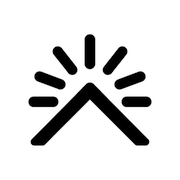
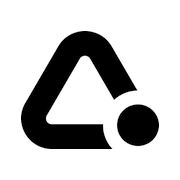
Update branding, copy, and assets for Physical AI positioning.
Refresh the logo and favicon, rebrand to Ashitano Robotics, rewrite vision and contact messaging, and broaden site copy from humanoids to physical AI.

Changed region(s): [[0.1111, 0.1667, 0.8889, 0.8333]]

diff --git a/src/constants/site.ts b/src/constants/site.ts
@@ -1,63 +1,62 @@
 const en = {
-  name: "ASHITANO Robotics",
-  nameEn: "ASHITANO Robotics",
+  name: "Ashitano Robotics",
+  nameEn: "Ashitano Robotics",
   legalName: "ASHITANO Robotics, Inc.",
-  productLine: "One Home, One Robot",
+  productLine: "Enriching tomorrow through technology",
   email: "contact@ashitanorobotics.co.jp",
-  tagline: "Building tomorrow's society through robotics",
+  tagline: "Enriching tomorrow through technology.",
   description:
-    "Building tomorrow's society through robotics. Through humanoid robots at events, warehouses, and logistics sites, we create the moments where people and robots meet.",
-  copyright: "© 2026 ASHITANO Robotics. All Rights Reserved.",
+    "Enriching tomorrow through technology. Through physical AI at events, warehouses, and logistics sites, we create the moments where people and technology meet.",
+  copyright: "© 2026 Ashitano Robotics. All Rights Reserved.",
   nav: {
     solution: "Service",
     vision: "Vision",
     contact: "Contact",
   },
   hero: {
-    title: "Building Tomorrow's Society\nThrough Robotics",
+    title: "Enriching Tomorrow\nThrough Technology",
     cta: "Contact Us",
-    sub: "We bring humanoids into the real world — from events and retail to warehouse and logistics floors.",
-    alt: "A person and a humanoid robot standing side by side",
+    sub: "We bring physical AI into the real world — from events and retail to warehouse and logistics floors.",
+    alt: "Physical AI operating in a real-world environment",
   },
   solution: {
     statement:
-      "From streets to facilities to the places people work — we plan, deploy, and operate humanoids where they create real impact.",
+      "From streets to facilities to the places people work — we plan, deploy, and operate physical AI where it creates real impact.",
     cardCta: "Contact Us",
     capabilities: [
       {
         title: "Marketing & Promotion",
         description:
-          "Humanoid presence that stops people in their tracks — and turns attention into action at events, retail, and commercial spaces.",
+          "Physical AI that stops people in their tracks — and turns attention into action at events, retail, and commercial spaces.",
         image: "/images/cap-marketing-g1-v1.png",
       },
       {
         title: "Warehouse",
         description:
-          "Humanoids that work alongside people in warehouses — supporting picking, sorting, and inventory tasks on the floor.",
+          "Physical AI that works alongside people in warehouses — supporting picking, sorting, and inventory tasks on the floor.",
         image: "/images/cap-warehouse-g1-v1.png",
       },
       {
         title: "Logistics",
         description:
-          "From loading docks to last-mile hubs — humanoids that keep goods moving through the supply chain.",
+          "From loading docks to last-mile hubs — physical AI that keeps goods moving through the supply chain.",
         image: "/images/cap-logistics-g1-v1.png",
       },
       {
         title: "After-hours monitoring",
         description:
-          "When stores and facilities close, humanoids patrol and monitor — keeping sites secure through the night.",
+          "When stores and facilities close, physical AI patrols and monitors — keeping sites secure through the night.",
         image: "/images/cap-monitoring-g1-v1.png",
       },
     ],
   },
   vision: {
-    title: "From streets to stores.\nFrom stores to homes.",
-    body: "First, we grow the places where people and robots meet.\nThe insights we gain expand where robots work — and where they live.\n\nWe don't just talk about a distant future.\nWe build the everyday of robots, one real-world site at a time.",
-    closing: "One Home, One Robot.",
+    title: "Building from real sites.",
+    body: "Physical AI creates new value wherever people gather and wherever work happens — from events and retail to warehouse floors, logistics hubs, and after-hours monitoring. The places it can contribute keep expanding.\n\nWe partner with clients from planning through deployment and day-to-day operations. What we learn at one site informs the next, steadily growing the environments where technology works naturally alongside people.\n\nWe don't talk about a distant future. We start at real sites, and build a world where physical AI and people work together as a matter of course. That is our vision.",
   },
   contact: {
-    title: "Let's build your next project,\nrobots included.",
-    body: "Events, retail, warehouses, logistics — tell us what you have in mind,\nand we'll explore how humanoids can make it work.",
+    title: "Get in touch.",
+    body: "Questions about physical AI — deployment, operations, events, retail, warehouses, or logistics. We'd love to hear from you.",
     cta: "Contact Us",
     submit: "Send",
     form: {
@@ -93,20 +92,20 @@ const en = {
       {
         label: "Business",
         value:
-          "Planning, production, and operation of humanoid-powered services; robot implementation support for marketing, warehouse, and logistics",
+          "Planning, production, and operation of physical AI services; robot implementation support for marketing, warehouse, and logistics",
       },
       { label: "Contact", value: "contact@ashitanorobotics.co.jp" },
     ],
   },
   seo: {
-    homeTitle: "ASHITANO Robotics | Building Tomorrow's Society Through Robotics",
+    homeTitle: "Ashitano Robotics | Enriching Tomorrow Through Technology",
     companyDescription:
-      "Company profile of ASHITANO Robotics, Inc. — planning, production, and operation of humanoid-powered services for marketing, warehouse, and logistics.",
+      "Company profile of Ashitano Robotics — planning, production, and operation of physical AI services for marketing, warehouse, and logistics.",
     privacyDescription:
-      "Privacy policy for ASHITANO Robotics. Learn how we collect, use, and protect personal information submitted through this website.",
+      "Privacy policy for Ashitano Robotics. Learn how we collect, use, and protect personal information submitted through this website.",
     keywords: [
-      "ASHITANO Robotics",
-      "humanoid robot",
+      "Ashitano Robotics",
+      "physical AI",
       "robotics",
       "robot promotion",
       "event marketing",
@@ -114,14 +113,13 @@ const en = {
       "warehouse automation",
       "logistics robotics",
       "robot implementation",
-      "One Home One Robot",
       "Tokyo robotics",
     ],
   },
   privacy: {
     title: "Privacy Policy",
     intro:
-      "ASHITANO Robotics (\u201cwe\u201d) respects your privacy. This policy explains how we handle personal information received through this website and our services.",
+      "Ashitano Robotics (\u201cwe\u201d) respects your privacy. This policy explains how we handle personal information received through this website and our services.",
     sections: [
       {
         heading: "1. Information We Collect",
@@ -153,40 +151,40 @@ const en = {
 
 const ja = {
   name: "あしたのロボティクス",
-  nameEn: "ASHITANO Robotics",
+  nameEn: "Ashitano Robotics",
   legalName: "あしたのロボティクス株式会社",
-  productLine: "One Home, One Robot",
+  productLine: "テクノロジーで、あしたをもっと豊かに。",
   email: "contact@ashitanorobotics.co.jp",
-  tagline: "ロボティクスで、あしたの社会を構築する",
+  tagline: "テクノロジーで、あしたをもっと豊かに。",
   description:
-    "ロボティクスで、あしたの社会を構築する。イベントや商業施設、倉庫・物流の現場でヒューマノイドを活用し、人とロボットが出会う機会をつくります。",
-  copyright: "© 2026 ASHITANO Robotics. All Rights Reserved.",
+    "テクノロジーで、あしたをもっと豊かに。イベントや商業施設、倉庫・物流の現場でフィジカルAIを活用し、人とテクノロジーが出会う機会をつくります。",
+  copyright: "© 2026 Ashitano Robotics. All Rights Reserved.",
   nav: {
     solution: "サービス",
     vision: "ビジョン",
     contact: "お問い合わせ",
   },
   hero: {
-    title: "ロボティクスで、\nあしたの社会を構築する",
+    title: "テクノロジーで、\nあしたをもっと豊かに。",
     cta: "お問い合わせ",
-    sub: "イベントや店舗から、倉庫・物流の現場まで。\nヒューマノイドを社会に届けます。",
-    alt: "人とヒューマノイドロボットが並び、未来を見据える様子",
+    sub: "イベントや店舗から、倉庫・物流の現場まで。フィジカルAIを社会に届けます。",
+    alt: "現場で活動するフィジカルAI",
   },
   solution: {
     statement:
-      "街も、施設も、働く現場も。ヒューマノイドが活きる場所を、企画・導入・運用します。",
+      "街も、施設も、働く現場も。フィジカルAIが活きる場所を、企画・導入・運用します。",
     cardCta: "お問い合わせ",
     capabilities: [
       {
         title: "マーケティング・プロモーション",
         description:
-          "イベントや商業施設で、ヒューマノイドの存在感を活かした集客・体験・コンバージョン施策を企画・実施します。",
+          "イベントや商業施設で、フィジカルAIの存在感を活かした集客・体験・コンバージョン施策を企画・実施します。",
         image: "/images/cap-marketing-g1-v1.png",
       },
       {
         title: "倉庫",
         description:
-          "ピッキングや仕分け、在庫管理など、倉庫フロアでの作業をヒューマノイドがサポートします。",
+          "ピッキングや仕分け、在庫管理など、倉庫フロアでの作業をフィジカルAIがサポートします。",
         image: "/images/cap-warehouse-g1-v1.png",
       },
       {
@@ -198,19 +196,18 @@ const ja = {
       {
         title: "営業終了後の監視",
         description:
-          "店舗や施設の営業終了後も、ヒューマノイドが巡回・監視し、夜間の安全を支えます。",
+          "店舗や施設の営業終了後も、フィジカルAIが巡回・監視し、夜間の安全を支えます。",
         image: "/images/cap-monitoring-g1-v1.png",
       },
     ],
   },
   vision: {
-    title: "街から、店舗へ。\n店舗から、家庭へ。",
-    body: "まずは、人とロボットが出会う場所を増やす。\nそこで得た知見を蓄積し、\nロボットが働く場所、暮らす場所を広げていく。\n\n遠い未来を語るだけではなく、\n目の前の現場から、\nロボットの当たり前をつくります。",
-    closing: "One Home, One Robot.",
+    title: "現場から、変えていく。",
+    body: "フィジカルAIは、人が集まる場所から、人が働く現場まで、新しい価値を生み出す存在です。イベントや商業施設での集客・体験、倉庫や物流での作業支援、営業終了後の監視——活用の幅は広がり続けています。\n\n私たちは、こうした現場で企画・導入・運用まで一貫して伴走します。一つの現場で得た知見を次の現場へつなぎ、テクノロジーが自然に活きる場を、着実に増やしていく。\n\n遠い未来を語るだけではなく、目の前の現場から、フィジカルAIと人が共に働く当たり前をつくる。それが私たちのビジョンです。",
   },
   contact: {
-    title: "ロボットを活用した企画を、\n一緒につくりませんか。",
-    body: "イベント、店舗、倉庫、物流など、\nヒューマノイドの活用についてご相談ください。",
+    title: "お気軽にご相談ください。",
+    body: "フィジカルAIの導入・運用、イベント、店舗、倉庫、物流など、お問い合わせをお待ちしています。",
     cta: "お問い合わせ",
     submit: "送信する",
     form: {
@@ -245,22 +242,22 @@ const ja = {
       {
         label: "事業内容",
         value:
-          "ヒューマノイドを活用したマーケティング・倉庫・物流サービスの企画・制作・運営、ロボットの社会実装支援",
+          "フィジカルAIを活用したマーケティング・倉庫・物流サービスの企画・制作・運営、ロボットの社会実装支援",
       },
       { label: "連絡先", value: "contact@ashitanorobotics.co.jp" },
     ],
   },
   seo: {
-    homeTitle: "あしたのロボティクス株式会社 | ロボティクスで、あしたの社会を構築する",
+    homeTitle: "あしたのロボティクス株式会社 | テクノロジーで、あしたをもっと豊かに。",
     companyDescription:
-      "あしたのロボティクス株式会社の会社概要。ヒューマノイドを活用したマーケティング・倉庫・物流サービスの企画・制作・運営、ロボットの社会実装支援を行っています。",
+      "あしたのロボティクス株式会社の会社概要。フィジカルAIを活用したマーケティング・倉庫・物流サービスの企画・制作・運営、ロボットの社会実装支援を行っています。",
     privacyDescription:
       "あしたのロボティクス株式会社のプライバシーポリシー。当ウェブサイトを通じて取得した個人情報の取り扱いについてご説明します。",
     keywords: [
       "あしたのロボティクス株式会社",
       "あしたのロボティクス",
-      "ASHITANO Robotics",
-      "ヒューマノイド",
+      "Ashitano Robotics",
+      "フィジカルAI",
       "ロボット",
       "ロボティクス",
       "プロモーション",
@@ -269,7 +266,6 @@ const ja = {
       "倉庫自動化",
       "物流ロボット",
       "ロボット社会実装",
-      "One Home One Robot",
     ],
   },
   privacy: {

diff --git a/src/components/ContactCta.tsx b/src/components/ContactCta.tsx
@@ -47,11 +47,11 @@ export default function ContactCta({ locale }: { locale: Locale }) {
         <div className="mx-auto max-w-[640px] text-center">
           <h2
             id="contact-heading"
-            className="section-heading-lg mx-auto whitespace-pre-line"
+            className="section-heading-lg mx-auto"
           >
             {site.contact.title}
           </h2>
-          <p className="mt-6 whitespace-pre-line text-[clamp(16px,1.8vw,22px)] leading-relaxed text-white/90">
+          <p className="mt-6 text-[clamp(16px,1.8vw,22px)] leading-relaxed text-white/90">
             {site.contact.body}
           </p>
         </div>

diff --git a/src/components/Vision.tsx b/src/components/Vision.tsx
@@ -44,9 +44,6 @@ export default function Vision({ locale }: { locale: Locale }) {
             <p className="mx-auto mt-8 max-w-[720px] whitespace-pre-line text-center text-[clamp(15px,1.6vw,18px)] leading-[2] text-white/85">
               {vision.body}
             </p>
-            <p className="font-display mt-12 text-center text-[clamp(20px,2.6vw,30px)] font-bold tracking-[-0.02em] text-white">
-              {vision.closing}
-            </p>
           </div>
         </MediaFrame>
       </Reveal>

diff --git a/src/app/globals.css b/src/app/globals.css
@@ -412,6 +412,13 @@ body {
 
 #request-demo-section .section-heading-lg {
   color: #fff;
+  white-space: normal;
+}
+
+@media (min-width: 768px) {
+  #request-demo-section .section-heading-lg {
+    white-space: normal;
+  }
 }
 
 @media (min-width: 768px) {
